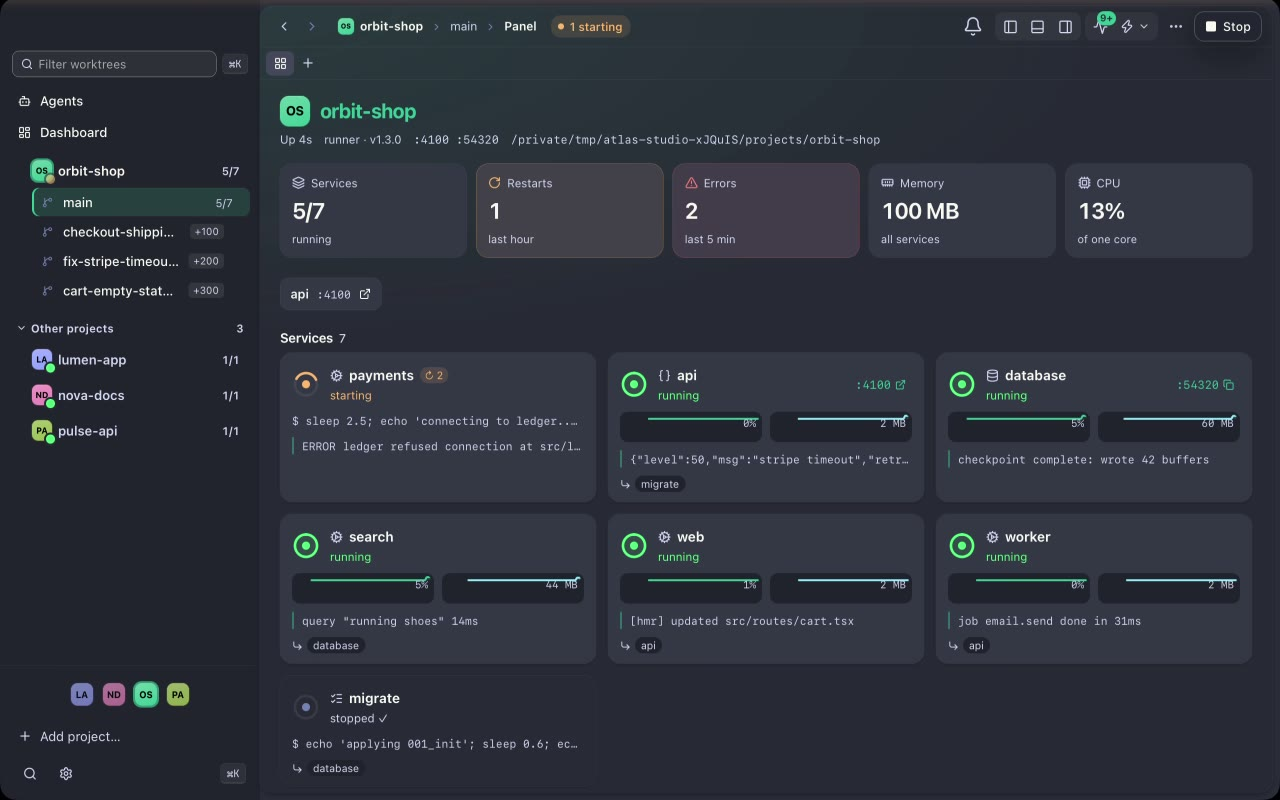
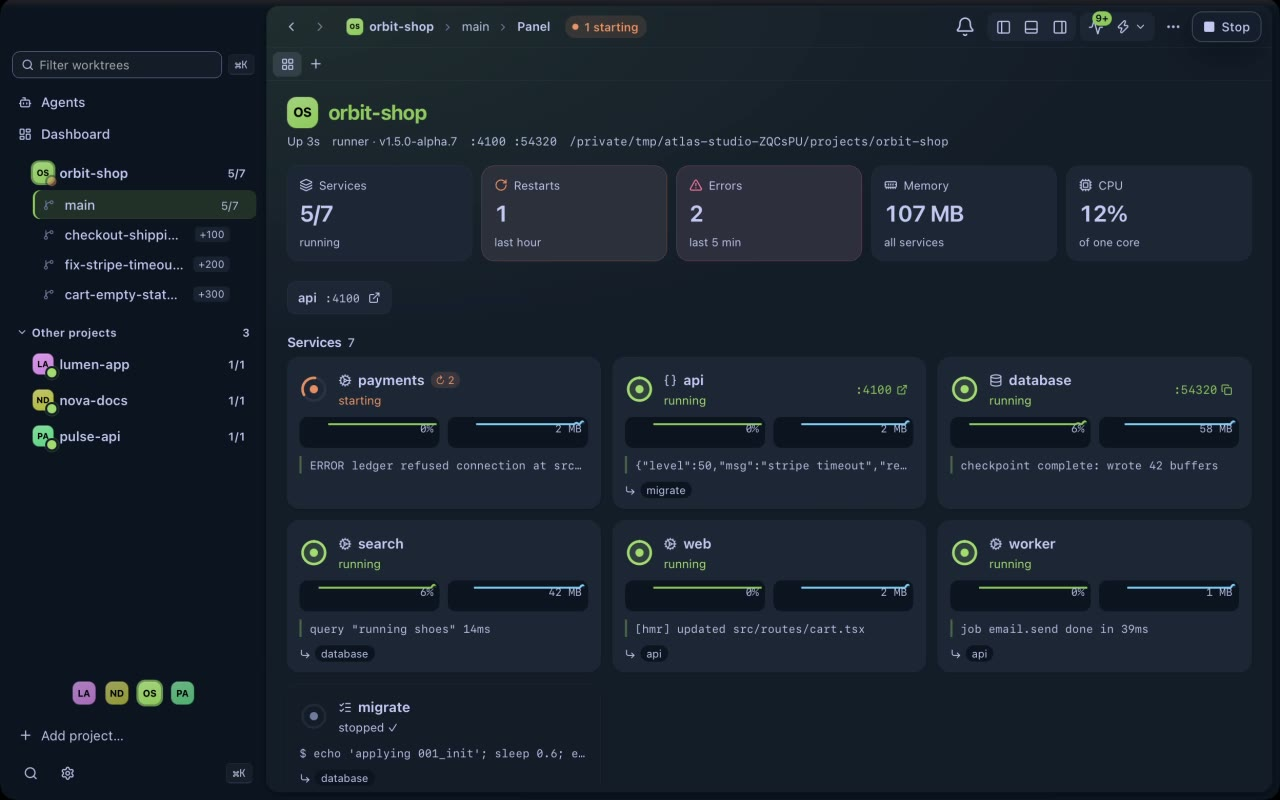
chore(site): regenerate every film, loop and still in the new default look (Atlas Dark) (#13)
Re-recorded the six site-media captures from the 1.5.0-alpha.7 build (no theme override), rebuilt the loops, stills, film (16:9 and 9:16), posters and og.png through the studio recipes and scripts; manifest versions updated.

- recipes: capture window is 1248x780 (the agent display's window watchdog hides anything larger, 1280x800 no longer shows); film crop/box follow the 2496x1556 window.
- mcp-demo.py runs on the system Python 3.9 a login shell now yields (test first).
- lint: a whole window over the dark field is no longer grown into the headline (window-cropped), and a dark window-only loop frame is not edge-clipped (real-frame fixtures, tests first).

Changed region(s): [[0.0, 0.0, 1.0, 1.0], [0.0, 0.4062, 0.0938, 0.5625], [0.0312, 0.8438, 0.1562, 0.9688]]

diff --git a/studio/src/lint/checks-image.test.ts b/studio/src/lint/checks-image.test.ts
@@ -190,6 +190,12 @@ describe("what is NOT a defect (false positives found scanning the published med
 		expect(checkEdgeClipping(await load("window-only-poster.jpg"), still)).toEqual([]);
 	});
 
+	test("a dark window-only loop frame (Atlas Dark, 1280x800) is the picture, not content cut by the frame (loop-panel/logs/mcp/terminal, 1.5.0-alpha.7)", async () => {
+		// Incident: after Atlas Dark the loops bled only top and bottom (the dark bezel is within `thresh` of the corner
+		// colours on the sides), so the all-four-sides exemption no longer applied and 28 frame/edge-clipped errors came out.
+		expect(checkEdgeClipping(await load("window-only-dark-loop.jpg"), PROFILES["site-loop"]!)).toEqual([]);
+	});
+
 	test("a dense terminal on a field is not 'sliced' on its sides: text runs to a terminal's left/right edges", async () => {
 		// Only top/bottom can be sliced. (This 1040-in-1080 terminal DOES lack side headroom, a separate, real finding.)
 		const d = checkEdgeClipping(await load("terminal-on-field.jpg"), still);
@@ -201,6 +207,17 @@ describe("what is NOT a defect (false positives found scanning the published med
 		const sides = d.filter((x) => x.code === "frame/edge-clipped").map((x) => x.fix?.params?.side);
 		expect(sides).toEqual(["left", "right"]);
 		expect(d[0]!.fix?.params?.add).toBeGreaterThan(0);
+	});
+
+	test("a whole window over a dark aurora field is boxed at its own edges, not grown up into the headline (window-cropped false positive, site film 1.5.0-alpha.7)", async () => {
+		// Incident: after Atlas Dark (near-black, blue-tinted) replaced the grey look, film-vertical.mp4 failed
+		// frame/window-cropped at 22.5 s on a window that is whole. `mergeAligned` grew the box 630 px up over the
+		// headline (rows whose edge columns merely resemble the bezel in a dark field), so the "top edge" it measured was
+		// aurora, std 26.8. The real window starts at row 700 of this 1080x1920 frame and ends at 1310.
+		const r = analyzeSubject(await load("vertical-window-dark-field.jpg"));
+		expect(r.box!.y).toBeGreaterThanOrEqual(690);
+		expect(r.box!.y + r.box!.h).toBeLessThanOrEqual(1320);
+		expect(checkEdgeClipping(await load("vertical-window-dark-field.jpg"), PROFILES["social-vertical"]!).filter((d) => d.code === "frame/window-cropped")).toEqual([]);
 	});
 
 	test("a synthetic window with intact chrome on a field has no findings on any side", () => {

diff --git a/studio/src/capture/demo-python.test.ts b/studio/src/capture/demo-python.test.ts
@@ -1,0 +1,36 @@
+import { expect, test } from "bun:test";
+import { existsSync } from "node:fs";
+import { join } from "node:path";
+import { run } from "../lib/exec.ts";
+import { STUDIO } from "../lib/paths.ts";
+
+// Incident (site media regeneration, 1.5.0-alpha.7): the `mcp` capture timed out waiting for "atlas_status". Since the
+// login-shell environment change (cfbf88e) a terminal started by the app gets the PATH of the user's login shell, and the
+// scratch HOME has no rc file, so `python3` is the macOS system Python 3.9. mcp-demo.py annotated `params: dict | None`,
+// which 3.9 evaluates at def time (TypeError), so the demo died before printing a single line.
+// The demo must define itself on the oldest Python a login shell can hand it.
+const SYSTEM_PYTHON = "/usr/bin/python3";
+const demos = ["mcp-demo.py"]; // memhog.py is a script, not a module of defs: it is covered by the compile check below
+
+test.skipIf(!existsSync(SYSTEM_PYTHON)).each(demos)("%s defines itself under the system Python (3.9), before it ever starts a server", async (file) => {
+	const path = join(STUDIO, "src/capture/assets", file);
+	// everything above the first rpc call: imports and every def, with the server spawn stubbed out (annotations are evaluated at def time on 3.9)
+	const code = [
+		"import re",
+		`src = open(${JSON.stringify(path)}).read().split('rpc(1, "initialize"')[0]`,
+		// the server spawn is a multi-line call: drop it, keep every def
+		`src = re.sub(r"p = subprocess\\.Popen\\(.*?\\n\\)\\n", "p = None\\n", src, flags=re.S)`,
+		`exec(compile(src, ${JSON.stringify(file)}, "exec"), {"__name__": "demo"})`,
+		'print("defined")',
+	].join("\n");
+	const { code: exit, out } = await run([SYSTEM_PYTHON, "-c", code], { allowFail: true });
+	expect(out.trim()).toBe("defined");
+	expect(exit).toBe(0);
+});
+
+test.skipIf(!existsSync(SYSTEM_PYTHON)).each(["mcp-demo.py", "memhog.py"])("%s compiles on the system Python (3.9): no syntax newer than the oldest interpreter a login shell can yield", async (file) => {
+	const path = join(STUDIO, "src/capture/assets", file);
+	const { code: exit, out } = await run([SYSTEM_PYTHON, "-c", `compile(open(${JSON.stringify(path)}).read(), ${JSON.stringify(file)}, "exec"); print("ok")`], { allowFail: true });
+	expect(out.trim()).toBe("ok");
+	expect(exit).toBe(0);
+});

diff --git a/studio/films/atlas-1-0/film.ts b/studio/films/atlas-1-0/film.ts
@@ -8,17 +8,17 @@ import { socialRenditions, socialSource } from "./social.ts";
 // ---- 16:9 -------------------------------------------------------------------------------------------------------
 
 /**
- * App footage is the six captures of `recipes/site-media.ts` (`bun studio run`): the real app in agent mode, Dracula,
- * with the window buttons hidden by the recorder (no OS "being shared" pill). Each frame is 2560x1580: the window
- * (2560x1576, 2x) starts at row 4, the 4 rows above are the wallpaper of the private virtual display. Cropping the
+ * App footage is the six captures of `recipes/site-media.ts` (`bun studio run`): the real app in agent mode, Atlas Dark (the default theme),
+ * with the window buttons hidden by the recorder (no OS "being shared" pill). Each frame is 2496x1560 (the 1248x780 window the agent display admits, 2x): the window
+ * (2496x1556) starts at row 4, the 4 rows above are the wallpaper of the private virtual display. Cropping the
  * window EXACTLY keeps its bezel, corners and titlebar whole and leaves out the sliver, which sat above the dark
  * bezel and read as structure crossing the window's top edge (`frame/window-cropped` at 38.97 s and 58.45 s).
  * `film.test.ts` measures that row on the footage each scene plays. The box gives >= 3% headroom (the lint's rule).
  */
-const APP_CROP = { x: 0, y: 4, w: 2560, h: 1576 };
-/** 1520 wide at the window's aspect is 936 high: 72 px of headroom above and below in a 1080 frame (6.7%). */
-const APP_BOX = { x: "center", y: "center", w: 1520, h: 936 } as const;
-/** The window's own corner radius is ~28 px at 2x; at the 1520/2560 scale that is ~17 px. */
+const APP_CROP = { x: 0, y: 4, w: 2496, h: 1556 };
+/** 1500 wide at the window's aspect is 936 high: 72 px of headroom above and below in a 1080 frame (6.7%). */
+const APP_BOX = { x: "center", y: "center", w: 1500, h: 936 } as const;
+/** The window's own corner radius is ~28 px at 2x; at the 1500/2496 scale that is ~17 px. */
 const APP_RADIUS = 17;
 
 /** Section card: headline and subtitle centered over a still of the field, 1.7 s. */

diff --git a/studio/src/lint/checks-image.ts b/studio/src/lint/checks-image.ts
@@ -125,6 +125,13 @@ function edgeSubjectShare(mask: Uint8Array, w: number, h: number, side: "top" | 
 	return hit / n;
 }
 
+/** True when both outer columns of the frame (3 px in, between the corners) are a flat line: a window's own bezel. */
+function sideBezelFlat(img: Image): boolean {
+	const y0 = Math.round(img.h * 0.08);
+	const y1 = img.h - y0;
+	return [3, img.w - 4].every((x) => lineStd(img, y0, y1, (t) => [x, t]) < SLICE_STD / 3);
+}
+
 export function checkEdgeClipping(img: Image, profile: Profile): Diagnostic[] {
 	const { box, edgeStd } = analyzeSubject(img);
 	if (!box || !edgeStd) {
@@ -132,6 +139,10 @@ export function checkEdgeClipping(img: Image, profile: Profile): Diagnostic[] {
 		// runs off 3+ sides the picture IS the content (a window-only screenshot): there is no frame to judge.
 		const bleeding = bleedingSides(img);
 		if (bleeding.length >= 3) return [];
+		// A whole window that fills the frame (a loop frame): top and bottom bleed, but its left and right edge columns are a
+		// flat bezel (luminance std ~ 0; measured 0-2 on every window-only fixture). On the dark Atlas look the side bezel
+		// sits within `bleedingSides`' threshold of the corner colour, so the all-sides rule above no longer sees it.
+		if (bleeding.length === 2 && bleeding.includes("top") && bleeding.includes("bottom") && sideBezelFlat(img)) return [];
 		// A cut subject is subject-coloured along the edge it runs off, so the subject mask sees it there (1.00 on every
 		// real case measured). A textured background (the aurora behind a title card, whose band crosses an edge) fools
 		// the corner-blend model but is not subject to the mask (0.00): that edge is field, not content. The exception is

diff --git a/studio/recipes/site-media.ts b/studio/recipes/site-media.ts
@@ -3,13 +3,14 @@
 //   bun studio run recipes/site-media.ts            (add --force to re-record)
 //   bun studio loops                                 cut + encode loop-*.mp4/.webm/-poster.jpg and shot-*.jpg into site/public/media
 //
-// Each capture starts a fresh app (Dracula, the current theme and contrast) from a fixture (capture/fixtures.ts) and a
+// Each capture starts a fresh app (Atlas Dark, the app's default theme: the seeded settings set no theme) from a fixture (capture/fixtures.ts) and a
 // script that drives it through its own stores: no OS input, no window on the user's desktop, no recording indicator
 // (the recorder is ScreenCaptureKit inside the app, with the window buttons hidden). What each file is made of is in
 // src/site-media.ts. Scripts port the 1.0 scenes of src/capture/scenes/*.ts, same pacing.
 import { RECIPE_SCHEMA, type RecipeInput } from "../src/run/recipe.ts";
 
-const size = { width: 1280, height: 800 } as const;
+/** 16:10, the largest window the agent display admits: it is 1280x820 pt, the window keeps 4 pt clear of every edge and starts below the 30 pt menu-bar band (`agent_mode::target_frame`; 1272x784 is already hidden by the watchdog). */
+const size = { width: 1248, height: 780 } as const;
 const base = { version: 1, size, fps: 60, cursor: false } as const;
 /** The Logs tab's search box and its regex toggle (aria-labels of Logs.svelte). */
 const search = 'input[aria-label="Search logs"]';

diff --git a/studio/src/lint/pixels.ts b/studio/src/lint/pixels.ts
@@ -242,14 +242,25 @@ function mergeAligned(mask: Uint8Array, img: Image, box: Rect): Rect {
 	};
 	let top = box.y;
 	let bottom = box.y + box.h - 1;
-	// skip over holes: look ahead up to the box's own height for the next row where both bezel edges are present
+	// skip over holes: look ahead up to the box's own height for the next row where both bezel edges are present.
+	// A bezel is a CONTINUOUS line: a run of edge rows shorter than `minRun` is a coincidence (a light streak or star
+	// whose colour is near the bezel's in a dark field: runs of 1-6 rows on a 606 px window, 1.5.0-alpha.7 film) and is
+	// ignored; the real edge runs measure >= 112 rows on the fixtures.
+	const minRun = Math.max(8, Math.round(box.h * 0.02));
 	const reach = (from: number, dir: 1 | -1) => {
 		let last = from;
 		for (let y = from + dir, miss = 0; y >= 0 && y < h && miss < box.h * 1.5; y += dir) {
-			if (hasEdges(y)) {
-				last = y;
+			if (!hasEdges(y)) {
+				miss++;
+				continue;
+			}
+			let end = y;
+			while (end + dir >= 0 && end + dir < h && hasEdges(end + dir)) end += dir;
+			if (Math.abs(end - y) + 1 >= minRun) {
+				last = end;
 				miss = 0;
-			} else miss++;
+			} else miss += Math.abs(end - y) + 1;
+			y = end;
 		}
 		return last;
 	};

diff --git a/studio/recipes/site-media.test.ts b/studio/recipes/site-media.test.ts
@@ -15,8 +15,8 @@ test("every published loop and shot has a capture that records it, and every `sh
 	}
 });
 
-test("the site shows loops at 1280x800 (16:10): every capture's window is that size, so no crop or scale is needed", () => {
-	for (const c of parsed.captures) expect(c.script.size).toEqual({ width: 1280, height: 800 });
+test("every capture's window is 16:10 and the largest the agent display admits (1248x780: 1272x784 is hidden by the window watchdog), so the loops' 1280x800 scale is exact", () => {
+	for (const c of parsed.captures) expect(c.script.size).toEqual({ width: 1248, height: 780 });
 });
 
 test("a loop fits inside its capture: it starts after the settle and ends before the recording does", () => {

diff --git a/studio/films/atlas-1-0/social.ts b/studio/films/atlas-1-0/social.ts
@@ -6,9 +6,9 @@
 
 import type { AppClipScene, Cut, NarrationLine, Scene, TerminalScene, TitleScene, VoiceSpec } from "../../src/lib/types.ts";
 
-const APP_CROP = { x: 0, y: 4, w: 2560, h: 1576 };
+const APP_CROP = { x: 0, y: 4, w: 2496, h: 1556 };
 /** `box` is ignored by a camera scene (the viewport replaces it); it is the source cut's own 16:9 placement. */
-const BOX = { x: "center", y: "center", w: 1520, h: 936 } as const;
+const BOX = { x: "center", y: "center", w: 1500, h: 936 } as const;
 
 const beat = (id: string, clip: string, from: number, focus: NonNullable<AppClipScene["focus"]>, headline: { title: string; subtitle: string }): AppClipScene => ({
 	id,

diff --git a/studio/recipes/onboarding.ts b/studio/recipes/onboarding.ts
@@ -31,7 +31,7 @@ const recipe: RecipeInput = {
 			shots: ["welcome", "scanned"],
 			script: {
 				version: 1,
-				size: { width: 1280, height: 800 },
+				size: { width: 1248, height: 780 },
 				fps: 60,
 				cursor: true,
 				steps: [

diff --git a/studio/recipes/tour.ts b/studio/recipes/tour.ts
@@ -14,7 +14,7 @@ const recipe: RecipeInput = {
 			shots: ["panel", "terminal"],
 			script: {
 				version: 1,
-				size: { width: 1280, height: 800 },
+				size: { width: 1248, height: 780 },
 				fps: 60,
 				cursor: true,
 				steps: [

diff --git a/studio/src/capture/assets/mcp-demo.py b/studio/src/capture/assets/mcp-demo.py
@@ -5,6 +5,8 @@ env: ATLAS_BIN      the atlas binary to run as the MCP server (required)
      MCP_DEMO_DIR   the project directory the server serves (required)
      MCP_DEMO_HOLD  seconds to keep the final screen (default 8)
 """
+from __future__ import annotations
+
 import json
 import os
 import subprocess

diff --git a/site/public/media/README.md b/site/public/media/README.md
@@ -23,6 +23,8 @@ All footage is real: recorded from the Atlas Desktop debug build (window capture
 | `loop-tui.mp4` / `.webm` / `-poster.jpg` | 1280x800, 24 fps, silent, 8s, <600KB, the current `atlas dev` log UX; cut from the vhs take (`bun studio capture tui tui`) by `bun studio loops` |
 | `shot-{workspace,panel,logs,terminal,agents}.jpg` | 2000px wide stills of the real app: the window PNG of the matching `shot` step of the recipe |
 
+The app footage and stills show Atlas Dark, the app's default theme (the capture's seeded settings set no theme). Captures are 1248x780 windows (2496x1560 frames at 2x), the largest the agent display admits; `bun studio loops` scales them to the loops' 1280x800.
+
 ## How the lint judges them
 
 `bun studio lint site/public/media` must report 0 errors. Loops and `.webm` siblings use the `site-loop` / `site-sibling` profiles, and `shot-*.jpg` and the loops' posters use `site-shot`: all `captured`, so the app's own UI text (13 px at 1x, 6-10 px when a full window is shown at 506 px) is not judged against a legibility floor that only authored titles can meet. Framing (the window whole, with headroom) and the audio/spec rules apply to every file. The film posters are composed frames and keep the strict `still` profile.
